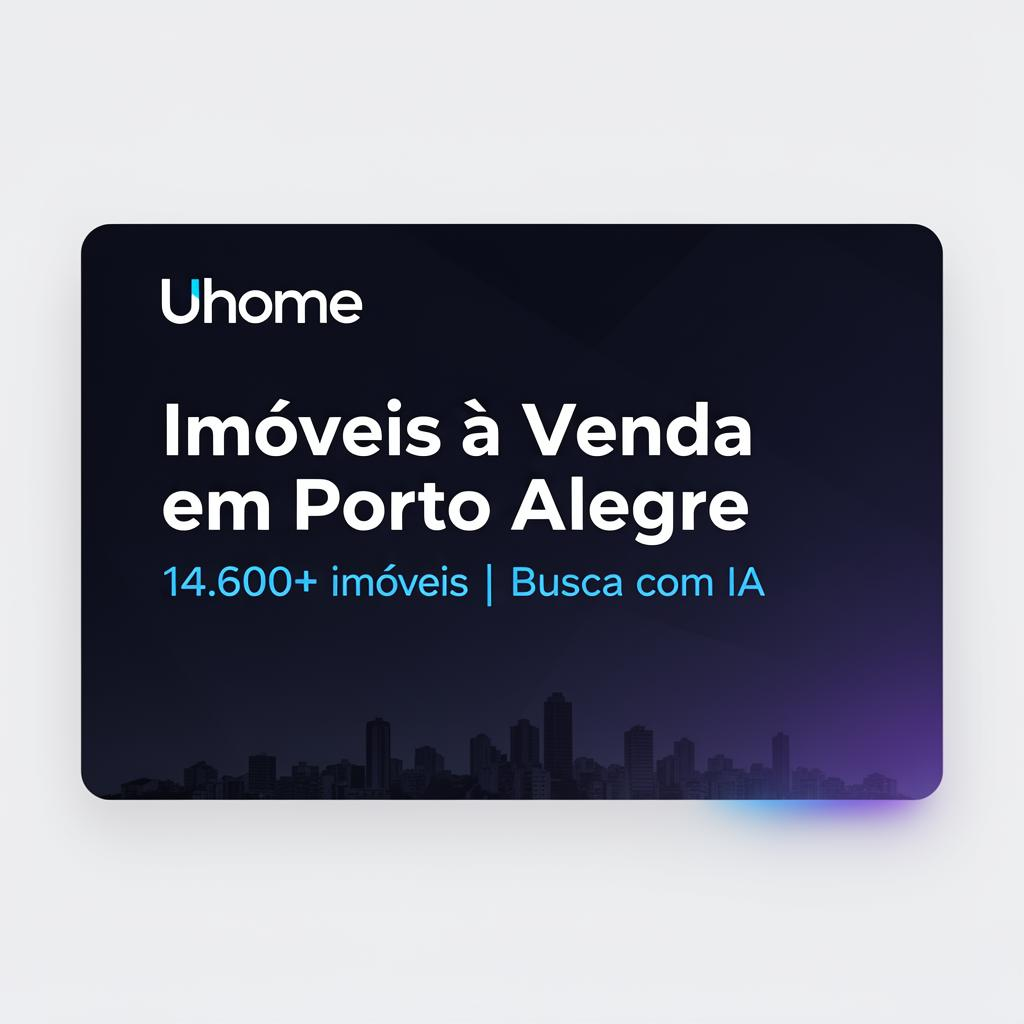
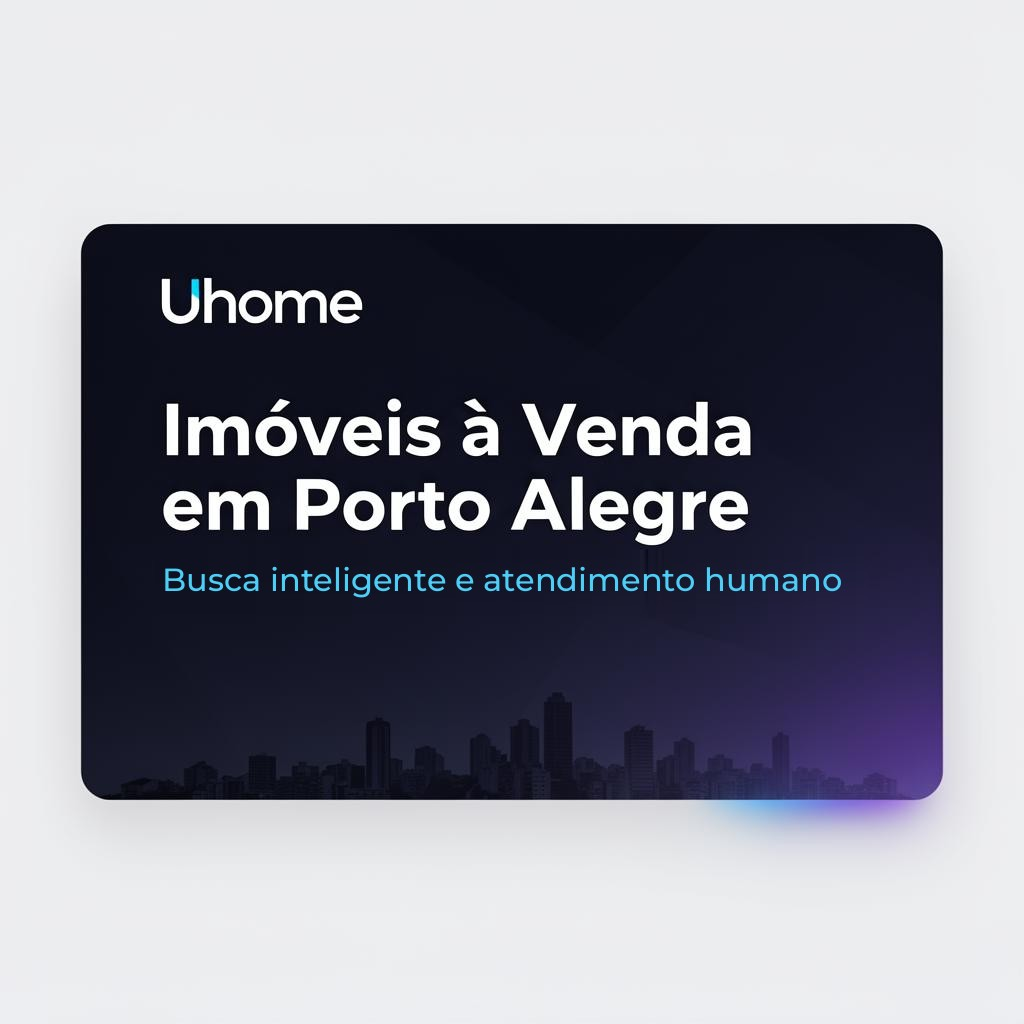
Remover faixa numérica e nota agregada preservando avaliações individuais

Changed region(s): [[0.1562, 0.5312, 0.8125, 0.5938]]

diff --git a/supabase/functions/lia-chat/prompt.ts b/supabase/functions/lia-chat/prompt.ts
@@ -62,7 +62,7 @@ TRAVAS INEGOCIÁVEIS
 - Condição de campanha: apresente sempre de forma positiva o que veio das ferramentas (condicoes_gerais e brinde) e diga que o especialista monta a condição exata da unidade. Nunca diga "não está detalhado", "não tenho confirmado", "não há condição" ou "não consta nos dados": isso derruba o interesse de quem veio pela oferta.
 
 DIFERENCIAIS DA UHOME (pode citar quando ajudar)
-Curadoria de imóveis e lançamentos, corretores especialistas por região, nota 4,9 no Google, busca no site com milhares de imóveis à venda.
+Curadoria de imóveis e lançamentos, especialistas por região, busca inteligente e atendimento humano. Não use nota agregada do Google, quantidade de corretores ou total de imóveis como argumento de venda.
 
 VOZ E FORMATO
 Você é a LIA, atendente virtual da Uhome. Não finge ser humana; se perguntarem, diga com naturalidade e ofereça falar com alguém. Português do Brasil, trate por "você". Mensagens CURTAS, calorosas, humanas. Quando precisar de mais, quebre em até 3 bolhas separadas por ||| , uma ideia por bolha, pergunta sempre na última. Sem markdown, sem listas, sem negrito, sem travessão. Links podem ir no texto puro. No máximo um emoji, só na abertura. Sem jargão ("localização privilegiada", "oportunidade única") e sem endosso ("ótima escolha"). Frases proibidas: "fico à disposição", "qualquer coisa é só chamar", "ainda tem interesse?".

diff --git a/src/components/home/HomeConfianca.tsx b/src/components/home/HomeConfianca.tsx
@@ -45,13 +45,12 @@ export function HomeConfianca() {
               <div>
                 <p className="font-body text-xs font-semibold uppercase tracking-[0.2em] text-primary">Quem comprou com a Uhome</p>
                 <h2 className="mt-3 text-h2 text-foreground">
-                  Nota {g.nota.toLocaleString("pt-BR")} no Google
+                  Avaliações de quem comprou com a Uhome
                 </h2>
                 <div className="mt-2 flex items-center gap-2">
-                  <Estrelas n={g.nota} className="h-5 w-5" />
                   {g.maps_url && (
                     <a href={g.maps_url} target="_blank" rel="noopener noreferrer" className="font-body text-sm text-muted-foreground underline-offset-2 hover:underline">
-                      {g.total} avaliações reais
+                      Avaliações no Google
                     </a>
                   )}
                 </div>

diff --git a/src/pages/Index.tsx b/src/pages/Index.tsx
@@ -2,7 +2,6 @@ import { useEffect, lazy, Suspense } from "react";
 import { Navbar } from "@/components/Navbar";
 import { HeroSection } from "@/components/HeroSection";
 import { HomeCampanhaBanner } from "@/components/HomeCampanhaBanner";
-import { HomeFaixaConfianca } from "@/components/home/HomeFaixaConfianca";
 import { Reveal } from "@/components/ui/reveal";
 
 
@@ -55,7 +54,6 @@ const Index = () => {
       <Navbar />
       <main>
         <HeroSection />
-        <HomeFaixaConfianca />
         <HomeCampanhaBanner />
         <Suspense fallback={null}>
           <Reveal><EmpreendimentosDestaque /></Reveal>

diff --git a/docs/parte3-entrega.md b/docs/parte3-entrega.md
@@ -1,5 +1,8 @@
 # Parte 3 — busca com mapa
 
+## Ajuste de vitrine aprovado por Lucas
+Faixa numérica abaixo da capa removida por completo, sem espaço residual. Nota agregada Google e quantidade de corretores não são argumentos de vitrine nem da Lia; avaliações individuais e perfis permanecem. Imagem `og-default.jpg` mantém a arte, agora sem o antigo total de imóveis. Não havia `aggregateRating` no código ativo. Esta rodada não modifica site-dobra nem Worker; os modelos antigos continuam intactos. Conferência em 390/1440: junção da capa com a próxima seção sem intervalo e 12 avaliações individuais preservadas.
+
 ## Pedido de aviso de preço
 Transportado pelo pipeline existente, via `submitLead`, `contexto.pedidos` e `dados_site.pedidos`. O CRM deve gerar uma nota por ID novo, sem duplicar no reenvio.
 

diff --git a/roadmap.md b/roadmap.md
@@ -1,4 +1,5 @@
 # Roadmap — rodada pós-auditoria 16/11
+- [x] Ajuste Lucas: faixa Home e nota agregada/equipe removidas; imagem padrão sem números; junção sem espaço e 12 avaliações individuais conferidas em 390/1440; modelos publicados preservados
 - [x] Parte 3: seções/categorias com contagens reais, modal, chips, vazio e paginação manual
 - [x] Parte 3: favoritos locais e pedido de aviso de preço UUID, jornada/CRM sem enviar leads de teste
 - [x] Parte 3: cinco URLs Google; sitemap dinâmico/estático regenerados sem datas artificiais
